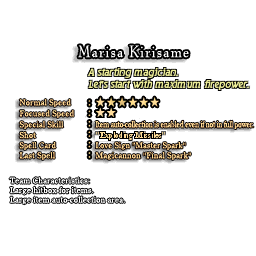
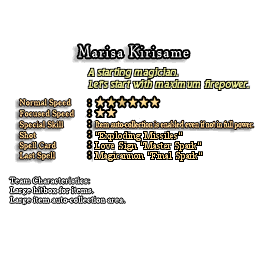
Updated some descriptions

Changed region(s): [[0.3438, 0.5, 0.8125, 0.6562]]

diff --git a/mima/files.js b/mima/files.js
@@ -66,15 +66,15 @@
 	"th08/data/title/sl_pl03a.png": 4181073956,
 	"th08/data/title/sl_pl03h.png": 1845854293,
 	"th08/data/title/sl_pltxt0.png": 1423342991,
-	"th08/data/title/sl_pltxt1.png": 3058675648,
+	"th08/data/title/sl_pltxt1.png": 283871871,
 	"th08/data/title/sl_pltxt10.png": 262183313,
 	"th08/data/title/sl_pltxt11.png": 2139912066,
 	"th08/data/title/sl_pltxt2.png": 3503936125,
 	"th08/data/title/sl_pltxt3.png": 3364119568,
 	"th08/data/title/sl_pltxt4.png": 2724803,
 	"th08/data/title/sl_pltxt5.png": 1855595020,
-	"th08/data/title/sl_pltxt6.png": 97270651,
-	"th08/data/title/sl_pltxt7.png": 4131150173,
+	"th08/data/title/sl_pltxt6.png": 2953085327,
+	"th08/data/title/sl_pltxt7.png": 3687359490,
 	"th08/data/title/sl_pltxt8.png": 2212946101,
 	"th08/data/title/sl_pltxt9.png": 338926899,
 	"th08/data/title/sl_text.png": 1704478695,
